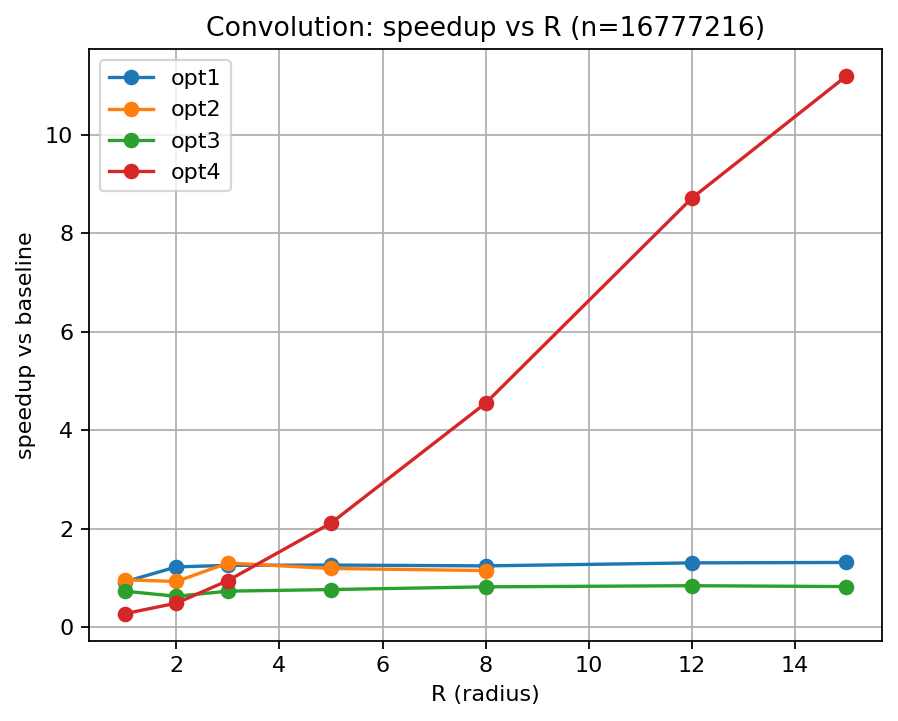
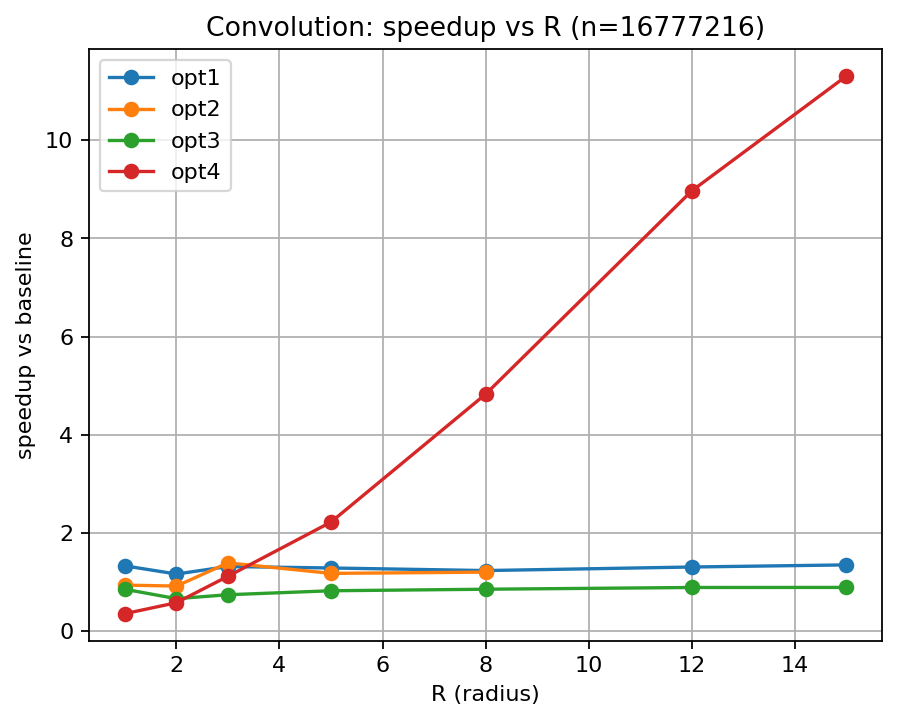
Updated benchmarks for concolution

Changed region(s): [[0.0624, 0.1526, 0.9666, 0.8849], [0.9042, 0.1221, 0.9354, 0.1526], [0.0624, 0.1831, 0.0935, 0.2136]]

diff --git a/docs/plots/convolution/convolution_results.md b/docs/plots/convolution/convolution_results.md
@@ -1,24 +1,26 @@
 # Convolution Benchmark Results
 
-- Generated from: `/content/gpu-parallel-patterns/benchmarks/results/conv_20260228_102655.csv`
+- Generated from: `/content/gpu-parallel-patterns/benchmarks/results/conv_20260307_213559.csv`
 
-- Git revision: `e6a6f38`
+- Git revision: `06db29a`
 
-- Environment capture: `/content/gpu-parallel-patterns/benchmarks/results/conv_20260228_102655_env.txt`
+- Environment capture: `/content/gpu-parallel-patterns/benchmarks/results/conv_20260307_213559_env.txt`
 
 ## Plots
 
 ### Time vs size (R=1)
 
-![time vs size](plots/conv_time_R1.png)
+![time vs size](conv_time_R1.png)
 
 ### Speedup vs R (n=16777216)
 
-![speedup vs R](plots/conv_speedup_n16777216.png)
+![speedup vs R](conv_speedup_n16777216.png)
 
 ## Tables
 
 > Notes:
+
+> - `cpu_ref` is the single-threaded CPU reference (not a GPU variant).
 
 > - Speedup is computed as `baseline_time / variant_time`.
 
@@ -29,200 +31,228 @@
 
 **Avg time per iteration (ms)**
 
-| w | baseline | opt1 | opt2 | opt3 | opt4 |
-|---|---|---|---|---|---|
-| 32 | 0.0041 | 0.0064 | 0.0065 | 0.0084 | 0.0176 |
-| 64 | 0.0040 | 0.0062 | 0.0064 | 0.0068 | 0.0177 |
-| 128 | 0.0036 | 0.0062 | 0.0064 | 0.0062 | 0.0181 |
-| 256 | 0.0050 | 0.0063 | 0.0063 | 0.0071 | 0.0177 |
-| 512 | 0.0129 | 0.0125 | 0.0139 | 0.0171 | 0.0344 |
-| 1024 | 0.0608 | 0.0607 | 0.0651 | 0.0773 | 0.1856 |
-| 2048 | 0.2405 | 0.2357 | 0.2457 | 0.3111 | 0.7277 |
-| 4096 | 0.9658 | 1.0469 | 1.0024 | 1.3208 | 3.5078 |
+| w | cpu_ref | baseline | opt1 | opt2 | opt3 | opt4 |
+|---|---|---|---|---|---|---|
+| 32 | 0.0247 | 0.0051 | 0.0063 | 0.0068 | 0.0092 | 0.0175 |
+| 64 | 0.0987 | 0.0043 | 0.0064 | 0.0064 | 0.0067 | 0.0178 |
+| 128 | 0.3992 | 0.0038 | 0.0065 | 0.0065 | 0.0064 | 0.0179 |
+| 256 | 1.5480 | 0.0064 | 0.0064 | 0.0066 | 0.0072 | 0.0177 |
+| 512 | 6.2700 | 0.0162 | 0.0137 | 0.0176 | 0.0221 | 0.0419 |
+| 1024 | 25.0910 | 0.0749 | 0.0617 | 0.0807 | 0.0979 | 0.2072 |
+| 2048 | 100.6610 | 0.3298 | 0.2391 | 0.3172 | 0.4139 | 0.8193 |
+| 4096 | 414.1280 | 1.3277 | 1.0019 | 1.4239 | 1.5666 | 3.7934 |
+| 8192 | 1627.7791 | 6.3350 | 6.0165 | 6.0791 | 7.8039 | 15.6677 |
+| 16384 | 7790.5601 | 23.6244 | 21.5343 | 21.9303 | 28.1675 | 65.5704 |
 
 **Speedup vs baseline**
 
 | w | baseline | opt1 | opt2 | opt3 | opt4 |
 |---|---|---|---|---|---|
-| 32 | 1.00× | 0.64× | 0.63× | 0.49× | 0.23× |
-| 64 | 1.00× | 0.65× | 0.62× | 0.59× | 0.23× |
-| 128 | 1.00× | 0.58× | 0.56× | 0.58× | 0.20× |
-| 256 | 1.00× | 0.79× | 0.79× | 0.70× | 0.28× |
-| 512 | 1.00× | 1.03× | 0.93× | 0.75× | 0.38× |
-| 1024 | 1.00× | 1.00× | 0.93× | 0.79× | 0.33× |
-| 2048 | 1.00× | 1.02× | 0.98× | 0.77× | 0.33× |
-| 4096 | 1.00× | 0.92× | 0.96× | 0.73× | 0.28× |
+| 32 | 1.00× | 0.81× | 0.75× | 0.55× | 0.29× |
+| 64 | 1.00× | 0.67× | 0.67× | 0.64× | 0.24× |
+| 128 | 1.00× | 0.58× | 0.58× | 0.59× | 0.21× |
+| 256 | 1.00× | 1.00× | 0.97× | 0.89× | 0.36× |
+| 512 | 1.00× | 1.18× | 0.92× | 0.73× | 0.39× |
+| 1024 | 1.00× | 1.21× | 0.93× | 0.77× | 0.36× |
+| 2048 | 1.00× | 1.38× | 1.04× | 0.80× | 0.40× |
+| 4096 | 1.00× | 1.33× | 0.93× | 0.85× | 0.35× |
+| 8192 | 1.00× | 1.05× | 1.04× | 0.81× | 0.40× |
+| 16384 | 1.00× | 1.10× | 1.08× | 0.84× | 0.36× |
 
 
 ### R = 2
 
 **Avg time per iteration (ms)**
 
-| w | baseline | opt1 | opt2 | opt3 | opt4 |
-|---|---|---|---|---|---|
-| 32 | 0.0030 | 0.0061 | 0.0064 | 0.0063 | 0.0176 |
-| 64 | 0.0031 | 0.0068 | 0.0063 | 0.0065 | 0.0177 |
-| 128 | 0.0037 | 0.0063 | 0.0066 | 0.0069 | 0.0176 |
-| 256 | 0.0081 | 0.0078 | 0.0098 | 0.0115 | 0.0176 |
-| 512 | 0.0249 | 0.0198 | 0.0262 | 0.0328 | 0.0353 |
-| 1024 | 0.0940 | 0.0813 | 0.1066 | 0.1312 | 0.1890 |
-| 2048 | 0.3819 | 0.3277 | 0.4123 | 0.5689 | 0.7450 |
-| 4096 | 1.7859 | 1.4580 | 1.9232 | 2.8404 | 3.6514 |
+| w | cpu_ref | baseline | opt1 | opt2 | opt3 | opt4 |
+|---|---|---|---|---|---|---|
+| 32 | 0.1052 | 0.0030 | 0.0064 | 0.0065 | 0.0098 | 0.0193 |
+| 64 | 0.2434 | 0.0031 | 0.0064 | 0.0098 | 0.0066 | 0.0176 |
+| 128 | 1.4940 | 0.0037 | 0.0062 | 0.0092 | 0.0091 | 0.0179 |
+| 256 | 3.9870 | 0.0078 | 0.0076 | 0.0096 | 0.0114 | 0.0175 |
+| 512 | 16.1090 | 0.0263 | 0.0232 | 0.0332 | 0.0392 | 0.0408 |
+| 1024 | 63.8940 | 0.1043 | 0.0953 | 0.1354 | 0.1652 | 0.2082 |
+| 2048 | 270.7260 | 0.3928 | 0.4178 | 0.5751 | 0.7349 | 0.8459 |
+| 4096 | 1038.4600 | 2.2154 | 1.9127 | 2.4274 | 3.3772 | 3.8595 |
+| 8192 | 4901.8740 | 11.8301 | 8.8484 | 10.3891 | 13.4463 | 15.9545 |
+| 16384 | 19366.5684 | 47.2741 | 36.3284 | 41.8523 | 53.7879 | 67.4119 |
 
 **Speedup vs baseline**
 
 | w | baseline | opt1 | opt2 | opt3 | opt4 |
 |---|---|---|---|---|---|
-| 32 | 1.00× | 0.49× | 0.47× | 0.48× | 0.17× |
-| 64 | 1.00× | 0.46× | 0.49× | 0.48× | 0.18× |
-| 128 | 1.00× | 0.59× | 0.56× | 0.54× | 0.21× |
-| 256 | 1.00× | 1.04× | 0.83× | 0.70× | 0.46× |
-| 512 | 1.00× | 1.26× | 0.95× | 0.76× | 0.71× |
-| 1024 | 1.00× | 1.16× | 0.88× | 0.72× | 0.50× |
-| 2048 | 1.00× | 1.17× | 0.93× | 0.67× | 0.51× |
-| 4096 | 1.00× | 1.22× | 0.93× | 0.63× | 0.49× |
+| 32 | 1.00× | 0.47× | 0.46× | 0.31× | 0.16× |
+| 64 | 1.00× | 0.48× | 0.32× | 0.47× | 0.18× |
+| 128 | 1.00× | 0.60× | 0.40× | 0.41× | 0.21× |
+| 256 | 1.00× | 1.03× | 0.81× | 0.68× | 0.45× |
+| 512 | 1.00× | 1.13× | 0.79× | 0.67× | 0.64× |
+| 1024 | 1.00× | 1.09× | 0.77× | 0.63× | 0.50× |
+| 2048 | 1.00× | 0.94× | 0.68× | 0.53× | 0.46× |
+| 4096 | 1.00× | 1.16× | 0.91× | 0.66× | 0.57× |
+| 8192 | 1.00× | 1.34× | 1.14× | 0.88× | 0.74× |
+| 16384 | 1.00× | 1.30× | 1.13× | 0.88× | 0.70× |
 
 
 ### R = 3
 
 **Avg time per iteration (ms)**
 
-| w | baseline | opt1 | opt2 | opt3 | opt4 |
-|---|---|---|---|---|---|
-| 32 | 0.0097 | 0.0095 | 0.0063 | 0.0092 | 0.0280 |
-| 64 | 0.0065 | 0.0098 | 0.0064 | 0.0093 | 0.0254 |
-| 128 | 0.0070 | 0.0092 | 0.0064 | 0.0097 | 0.0320 |
-| 256 | 0.0150 | 0.0130 | 0.0114 | 0.0182 | 0.0252 |
-| 512 | 0.0509 | 0.0388 | 0.0324 | 0.0559 | 0.0382 |
-| 1024 | 0.1793 | 0.1573 | 0.1312 | 0.2482 | 0.1951 |
-| 2048 | 0.7477 | 0.6011 | 0.5229 | 1.0977 | 0.8383 |
-| 4096 | 3.6587 | 2.9124 | 2.8075 | 4.9955 | 3.8616 |
+| w | cpu_ref | baseline | opt1 | opt2 | opt3 | opt4 |
+|---|---|---|---|---|---|---|
+| 32 | 0.1149 | 0.0046 | 0.0065 | 0.0062 | 0.0088 | 0.0179 |
+| 64 | 0.4865 | 0.0047 | 0.0064 | 0.0065 | 0.0098 | 0.0191 |
+| 128 | 1.9240 | 0.0056 | 0.0065 | 0.0088 | 0.0097 | 0.0197 |
+| 256 | 8.0660 | 0.0131 | 0.0114 | 0.0113 | 0.0183 | 0.0193 |
+| 512 | 30.1450 | 0.0527 | 0.0365 | 0.0356 | 0.0678 | 0.0515 |
+| 1024 | 121.5620 | 0.2144 | 0.1359 | 0.1352 | 0.2759 | 0.2366 |
+| 2048 | 483.0740 | 0.9688 | 0.5688 | 0.5120 | 1.3015 | 0.8611 |
+| 4096 | 1996.6801 | 4.4118 | 3.3640 | 3.1848 | 5.9927 | 3.9644 |
+| 8192 | 9162.6475 | 18.5098 | 14.5451 | 14.1125 | 22.6034 | 17.0882 |
+| 16384 | 34523.3047 | 72.4689 | 59.3119 | 55.9124 | 91.4324 | 72.4234 |
 
 **Speedup vs baseline**
 
 | w | baseline | opt1 | opt2 | opt3 | opt4 |
 |---|---|---|---|---|---|
-| 32 | 1.00× | 1.02× | 1.54× | 1.05× | 0.35× |
-| 64 | 1.00× | 0.66× | 1.02× | 0.70× | 0.26× |
-| 128 | 1.00× | 0.76× | 1.09× | 0.72× | 0.22× |
-| 256 | 1.00× | 1.15× | 1.32× | 0.82× | 0.60× |
-| 512 | 1.00× | 1.31× | 1.57× | 0.91× | 1.33× |
-| 1024 | 1.00× | 1.14× | 1.37× | 0.72× | 0.92× |
-| 2048 | 1.00× | 1.24× | 1.43× | 0.68× | 0.89× |
-| 4096 | 1.00× | 1.26× | 1.30× | 0.73× | 0.95× |
+| 32 | 1.00× | 0.71× | 0.74× | 0.52× | 0.26× |
+| 64 | 1.00× | 0.73× | 0.72× | 0.48× | 0.25× |
+| 128 | 1.00× | 0.86× | 0.64× | 0.58× | 0.28× |
+| 256 | 1.00× | 1.15× | 1.16× | 0.72× | 0.68× |
+| 512 | 1.00× | 1.44× | 1.48× | 0.78× | 1.02× |
+| 1024 | 1.00× | 1.58× | 1.59× | 0.78× | 0.91× |
+| 2048 | 1.00× | 1.70× | 1.89× | 0.74× | 1.13× |
+| 4096 | 1.00× | 1.31× | 1.39× | 0.74× | 1.11× |
+| 8192 | 1.00× | 1.27× | 1.31× | 0.82× | 1.08× |
+| 16384 | 1.00× | 1.22× | 1.30× | 0.79× | 1.00× |
 
 
 ### R = 5
 
 **Avg time per iteration (ms)**
 
-| w | baseline | opt1 | opt2 | opt3 | opt4 |
-|---|---|---|---|---|---|
-| 32 | 0.0077 | 0.0084 | 0.0101 | 0.0153 | 0.0177 |
-| 64 | 0.0081 | 0.0086 | 0.0094 | 0.0156 | 0.0185 |
-| 128 | 0.0111 | 0.0097 | 0.0104 | 0.0169 | 0.0185 |
-| 256 | 0.0311 | 0.0216 | 0.0255 | 0.0358 | 0.0182 |
-| 512 | 0.1100 | 0.0727 | 0.0863 | 0.1184 | 0.0395 |
-| 1024 | 0.4379 | 0.2758 | 0.3785 | 0.4955 | 0.2032 |
-| 2048 | 1.9462 | 1.3059 | 1.6426 | 2.5029 | 0.8182 |
-| 4096 | 8.5229 | 6.7511 | 7.1455 | 11.1392 | 4.0305 |
+| w | cpu_ref | baseline | opt1 | opt2 | opt3 | opt4 |
+|---|---|---|---|---|---|---|
+| 32 | 0.5529 | 0.0077 | 0.0084 | 0.0065 | 0.0153 | 0.0176 |
+| 64 | 2.4115 | 0.0078 | 0.0085 | 0.0064 | 0.0157 | 0.0180 |
+| 128 | 9.8410 | 0.0108 | 0.0098 | 0.0095 | 0.0170 | 0.0183 |
+| 256 | 35.8930 | 0.0302 | 0.0218 | 0.0256 | 0.0359 | 0.0183 |
+| 512 | 88.8410 | 0.1377 | 0.0821 | 0.0943 | 0.1556 | 0.0476 |
+| 1024 | 313.3640 | 0.5612 | 0.3283 | 0.3868 | 0.6666 | 0.2321 |
+| 2048 | 1224.9830 | 2.5099 | 1.3933 | 1.7279 | 2.8876 | 0.9212 |
+| 4096 | 6184.7642 | 9.6816 | 7.5545 | 8.2641 | 11.8447 | 4.3645 |
+| 8192 | 22360.9395 | 39.3845 | 30.6405 | 33.5349 | 48.0266 | 18.5429 |
+| 16384 | 88201.8984 | 157.0583 | 125.1853 | 135.3777 | 193.7442 | 77.9402 |
 
 **Speedup vs baseline**
 
 | w | baseline | opt1 | opt2 | opt3 | opt4 |
 |---|---|---|---|---|---|
-| 32 | 1.00× | 0.92× | 0.76× | 0.50× | 0.44× |
-| 64 | 1.00× | 0.94× | 0.86× | 0.52× | 0.44× |
-| 128 | 1.00× | 1.14× | 1.07× | 0.66× | 0.60× |
-| 256 | 1.00× | 1.44× | 1.22× | 0.87× | 1.71× |
-| 512 | 1.00× | 1.51× | 1.27× | 0.93× | 2.78× |
-| 1024 | 1.00× | 1.59× | 1.16× | 0.88× | 2.16× |
-| 2048 | 1.00× | 1.49× | 1.18× | 0.78× | 2.38× |
-| 4096 | 1.00× | 1.26× | 1.19× | 0.77× | 2.11× |
+| 32 | 1.00× | 0.92× | 1.18× | 0.50× | 0.44× |
+| 64 | 1.00× | 0.92× | 1.22× | 0.50× | 0.43× |
+| 128 | 1.00× | 1.10× | 1.14× | 0.64× | 0.59× |
+| 256 | 1.00× | 1.39× | 1.18× | 0.84× | 1.65× |
+| 512 | 1.00× | 1.68× | 1.46× | 0.88× | 2.89× |
+| 1024 | 1.00× | 1.71× | 1.45× | 0.84× | 2.42× |
+| 2048 | 1.00× | 1.80× | 1.45× | 0.87× | 2.72× |
+| 4096 | 1.00× | 1.28× | 1.17× | 0.82× | 2.22× |
+| 8192 | 1.00× | 1.29× | 1.17× | 0.82× | 2.12× |
+| 16384 | 1.00× | 1.25× | 1.16× | 0.81× | 2.02× |
 
 
 ### R = 8
 
 **Avg time per iteration (ms)**
 
-| w | baseline | opt1 | opt2 | opt3 | opt4 |
-|---|---|---|---|---|---|
-| 32 | 0.0146 | 0.0135 | 0.0111 | 0.0303 | 0.0180 |
-| 64 | 0.0149 | 0.0138 | 0.0109 | 0.0304 | 0.0179 |
-| 128 | 0.0210 | 0.0171 | 0.0186 | 0.0334 | 0.0181 |
-| 256 | 0.0656 | 0.0459 | 0.0568 | 0.0760 | 0.0279 |
-| 512 | 0.2495 | 0.1659 | 0.2031 | 0.2634 | 0.0453 |
-| 1024 | 1.0631 | 0.6980 | 0.8681 | 1.2372 | 0.2169 |
-| 2048 | 4.8042 | 3.4881 | 3.9836 | 5.8283 | 0.8527 |
-| 4096 | 18.9713 | 15.2307 | 16.4873 | 23.1342 | 4.1711 |
+| w | cpu_ref | baseline | opt1 | opt2 | opt3 | opt4 |
+|---|---|---|---|---|---|---|
+| 32 | 0.5777 | 0.0139 | 0.0135 | 0.0111 | 0.0301 | 0.0181 |
+| 64 | 2.5040 | 0.0142 | 0.0138 | 0.0110 | 0.0305 | 0.0177 |
+| 128 | 10.3900 | 0.0208 | 0.0173 | 0.0187 | 0.0334 | 0.0186 |
+| 256 | 45.4420 | 0.0644 | 0.0463 | 0.0573 | 0.0754 | 0.0268 |
+| 512 | 175.3330 | 0.3361 | 0.1878 | 0.2595 | 0.3282 | 0.0448 |
+| 1024 | 1279.2090 | 1.3320 | 0.8159 | 1.0734 | 1.4456 | 0.2520 |
+| 2048 | 2851.5911 | 5.7082 | 4.0784 | 4.6637 | 6.2942 | 0.9836 |
+| 4096 | 12717.1826 | 21.5956 | 17.5718 | 18.0377 | 25.4541 | 4.4753 |
+| 8192 | 51100.8789 | 87.6974 | 69.7558 | 73.1584 | 102.0734 | 19.9524 |
+| 16384 | 209622.5156 | 352.1221 | 278.4578 | 285.2526 | 398.8841 | 83.1175 |
 
 **Speedup vs baseline**
 
 | w | baseline | opt1 | opt2 | opt3 | opt4 |
 |---|---|---|---|---|---|
-| 32 | 1.00× | 1.08× | 1.32× | 0.48× | 0.81× |
-| 64 | 1.00× | 1.08× | 1.37× | 0.49× | 0.83× |
-| 128 | 1.00× | 1.23× | 1.13× | 0.63× | 1.16× |
-| 256 | 1.00× | 1.43× | 1.15× | 0.86× | 2.35× |
-| 512 | 1.00× | 1.50× | 1.23× | 0.95× | 5.51× |
-| 1024 | 1.00× | 1.52× | 1.22× | 0.86× | 4.90× |
-| 2048 | 1.00× | 1.38× | 1.21× | 0.82× | 5.63× |
-| 4096 | 1.00× | 1.25× | 1.15× | 0.82× | 4.55× |
+| 32 | 1.00× | 1.03× | 1.25× | 0.46× | 0.77× |
+| 64 | 1.00× | 1.03× | 1.29× | 0.47× | 0.80× |
+| 128 | 1.00× | 1.20× | 1.11× | 0.62× | 1.12× |
+| 256 | 1.00× | 1.39× | 1.12× | 0.85× | 2.40× |
+| 512 | 1.00× | 1.79× | 1.30× | 1.02× | 7.50× |
+| 1024 | 1.00× | 1.63× | 1.24× | 0.92× | 5.29× |
+| 2048 | 1.00× | 1.40× | 1.22× | 0.91× | 5.80× |
+| 4096 | 1.00× | 1.23× | 1.20× | 0.85× | 4.83× |
+| 8192 | 1.00× | 1.26× | 1.20× | 0.86× | 4.40× |
+| 16384 | 1.00× | 1.26× | 1.23× | 0.88× | 4.24× |
 
 
 ### R = 12
 
 **Avg time per iteration (ms)**
 
-| w | baseline | opt1 | opt3 | opt4 |
-|---|---|---|---|---|
-| 32 | 0.0273 | 0.0272 | 0.0701 | 0.0185 |
-| 64 | 0.0280 | 0.0277 | 0.0701 | 0.0186 |
-| 128 | 0.0436 | 0.0344 | 0.0710 | 0.0181 |
-| 256 | 0.1372 | 0.0956 | 0.1638 | 0.0210 |
-| 512 | 0.5266 | 0.3548 | 0.5740 | 0.0555 |
-| 1024 | 2.4077 | 1.5598 | 2.7682 | 0.2401 |
-| 2048 | 10.1779 | 8.0422 | 12.4240 | 0.9435 |
-| 4096 | 40.7406 | 31.1890 | 48.3257 | 4.6785 |
+| w | cpu_ref | baseline | opt1 | opt3 | opt4 |
+|---|---|---|---|---|---|
+| 32 | 1.1340 | 0.0294 | 0.0274 | 0.0612 | 0.0180 |
+| 64 | 5.2820 | 0.0302 | 0.0279 | 0.0616 | 0.0181 |
+| 128 | 21.6690 | 0.0469 | 0.0348 | 0.0678 | 0.0184 |
+| 256 | 91.9890 | 0.1483 | 0.0965 | 0.1559 | 0.0205 |
+| 512 | 371.9640 | 0.6767 | 0.4648 | 0.6518 | 0.0597 |
+| 1024 | 1645.7180 | 2.9546 | 1.9921 | 2.9622 | 0.2482 |
+| 2048 | 6076.8569 | 11.4119 | 8.5854 | 13.1506 | 0.9687 |
+| 4096 | 27129.9395 | 45.3749 | 34.8661 | 51.3325 | 5.0586 |
+| 8192 | 110585.0078 | 184.8181 | 139.8581 | 206.3509 | 24.3234 |
+| 16384 | 444546.2188 | 741.7517 | 553.2416 | 819.8126 | 99.4621 |
 
 **Speedup vs baseline**
 
 | w | baseline | opt1 | opt3 | opt4 |
 |---|---|---|---|---|
-| 32 | 1.00× | 1.00× | 0.39× | 1.48× |
-| 64 | 1.00× | 1.01× | 0.40× | 1.51× |
-| 128 | 1.00× | 1.27× | 0.61× | 2.41× |
-| 256 | 1.00× | 1.44× | 0.84× | 6.53× |
-| 512 | 1.00× | 1.48× | 0.92× | 9.49× |
-| 1024 | 1.00× | 1.54× | 0.87× | 10.03× |
-| 2048 | 1.00× | 1.27× | 0.82× | 10.79× |
-| 4096 | 1.00× | 1.31× | 0.84× | 8.71× |
+| 32 | 1.00× | 1.07× | 0.48× | 1.63× |
+| 64 | 1.00× | 1.08× | 0.49× | 1.67× |
+| 128 | 1.00× | 1.35× | 0.69× | 2.55× |
+| 256 | 1.00× | 1.54× | 0.95× | 7.23× |
+| 512 | 1.00× | 1.46× | 1.04× | 11.34× |
+| 1024 | 1.00× | 1.48× | 1.00× | 11.90× |
+| 2048 | 1.00× | 1.33× | 0.87× | 11.78× |
+| 4096 | 1.00× | 1.30× | 0.88× | 8.97× |
+| 8192 | 1.00× | 1.32× | 0.90× | 7.60× |
+| 16384 | 1.00× | 1.34× | 0.90× | 7.46× |
 
 
 ### R = 15
 
 **Avg time per iteration (ms)**
 
-| w | baseline | opt1 | opt3 | opt4 |
-|---|---|---|---|---|
-| 32 | 0.0408 | 0.0375 | 0.0902 | 0.0175 |
-| 64 | 0.0423 | 0.0377 | 0.0903 | 0.0193 |
-| 128 | 0.0650 | 0.0488 | 0.0995 | 0.0280 |
-| 256 | 0.2189 | 0.1444 | 0.2443 | 0.0268 |
-| 512 | 0.8481 | 0.6133 | 0.9583 | 0.0580 |
-| 1024 | 3.7687 | 2.7201 | 4.5333 | 0.2544 |
-| 2048 | 15.2501 | 11.8012 | 18.6634 | 1.0008 |
-| 4096 | 61.9612 | 47.1083 | 75.0377 | 5.5382 |
+| w | cpu_ref | baseline | opt1 | opt3 | opt4 |
+|---|---|---|---|---|---|
+| 32 | 1.5660 | 0.0396 | 0.0374 | 0.0900 | 0.0183 |
+| 64 | 7.6360 | 0.0407 | 0.0377 | 0.0903 | 0.0185 |
+| 128 | 33.3160 | 0.0627 | 0.0489 | 0.0995 | 0.0179 |
+| 256 | 152.8010 | 0.2137 | 0.1436 | 0.2448 | 0.0221 |
+| 512 | 580.2020 | 1.0322 | 0.7714 | 1.1038 | 0.0768 |
+| 1024 | 3577.0630 | 4.3118 | 3.2575 | 4.7744 | 0.3244 |
+| 2048 | 10567.4072 | 17.5421 | 14.2242 | 19.4736 | 1.1462 |
+| 4096 | 41262.4258 | 69.4802 | 51.6733 | 78.4957 | 6.1430 |
+| 8192 | 166687.1250 | 278.3351 | 207.3696 | 322.5176 | 27.0296 |
+| 16384 | 674401.3750 | 1106.2156 | 826.1125 | 1320.9800 | 108.9688 |
 
 **Speedup vs baseline**
 
 | w | baseline | opt1 | opt3 | opt4 |
 |---|---|---|---|---|
-| 32 | 1.00× | 1.09× | 0.45× | 2.33× |
-| 64 | 1.00× | 1.12× | 0.47× | 2.19× |
-| 128 | 1.00× | 1.33× | 0.65× | 2.32× |
-| 256 | 1.00× | 1.52× | 0.90× | 8.17× |
-| 512 | 1.00× | 1.38× | 0.89× | 14.62× |
-| 1024 | 1.00× | 1.39× | 0.83× | 14.81× |
-| 2048 | 1.00× | 1.29× | 0.82× | 15.24× |
-| 4096 | 1.00× | 1.32× | 0.83× | 11.19× |
+| 32 | 1.00× | 1.06× | 0.44× | 2.16× |
+| 64 | 1.00× | 1.08× | 0.45× | 2.20× |
+| 128 | 1.00× | 1.28× | 0.63× | 3.50× |
+| 256 | 1.00× | 1.49× | 0.87× | 9.67× |
+| 512 | 1.00× | 1.34× | 0.94× | 13.44× |
+| 1024 | 1.00× | 1.32× | 0.90× | 13.29× |
+| 2048 | 1.00× | 1.23× | 0.90× | 15.30× |
+| 4096 | 1.00× | 1.34× | 0.89× | 11.31× |
+| 8192 | 1.00× | 1.34× | 0.86× | 10.30× |
+| 16384 | 1.00× | 1.34× | 0.84× | 10.15× |
